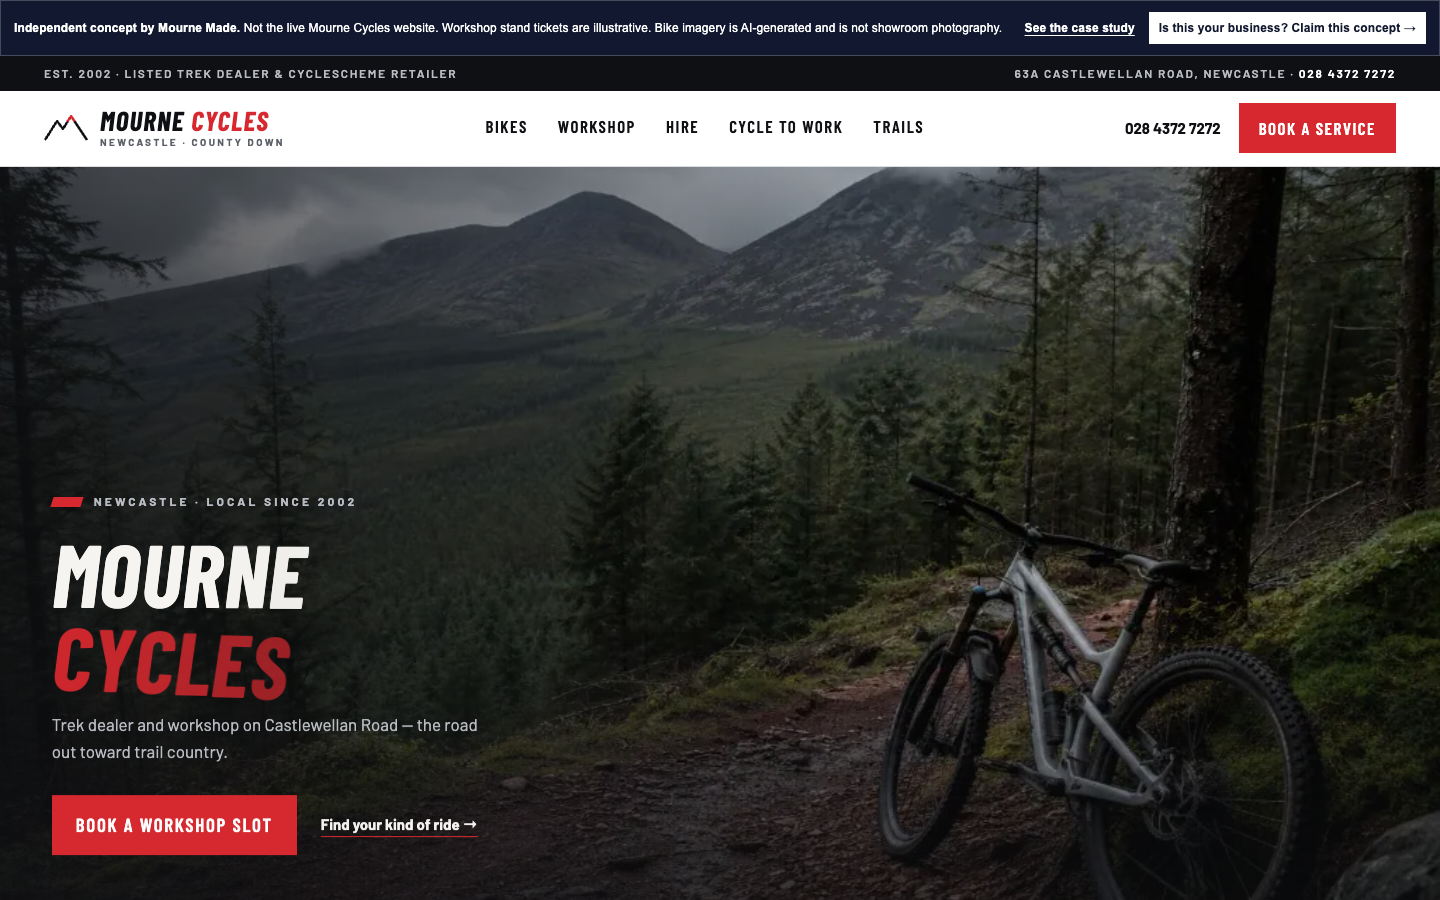
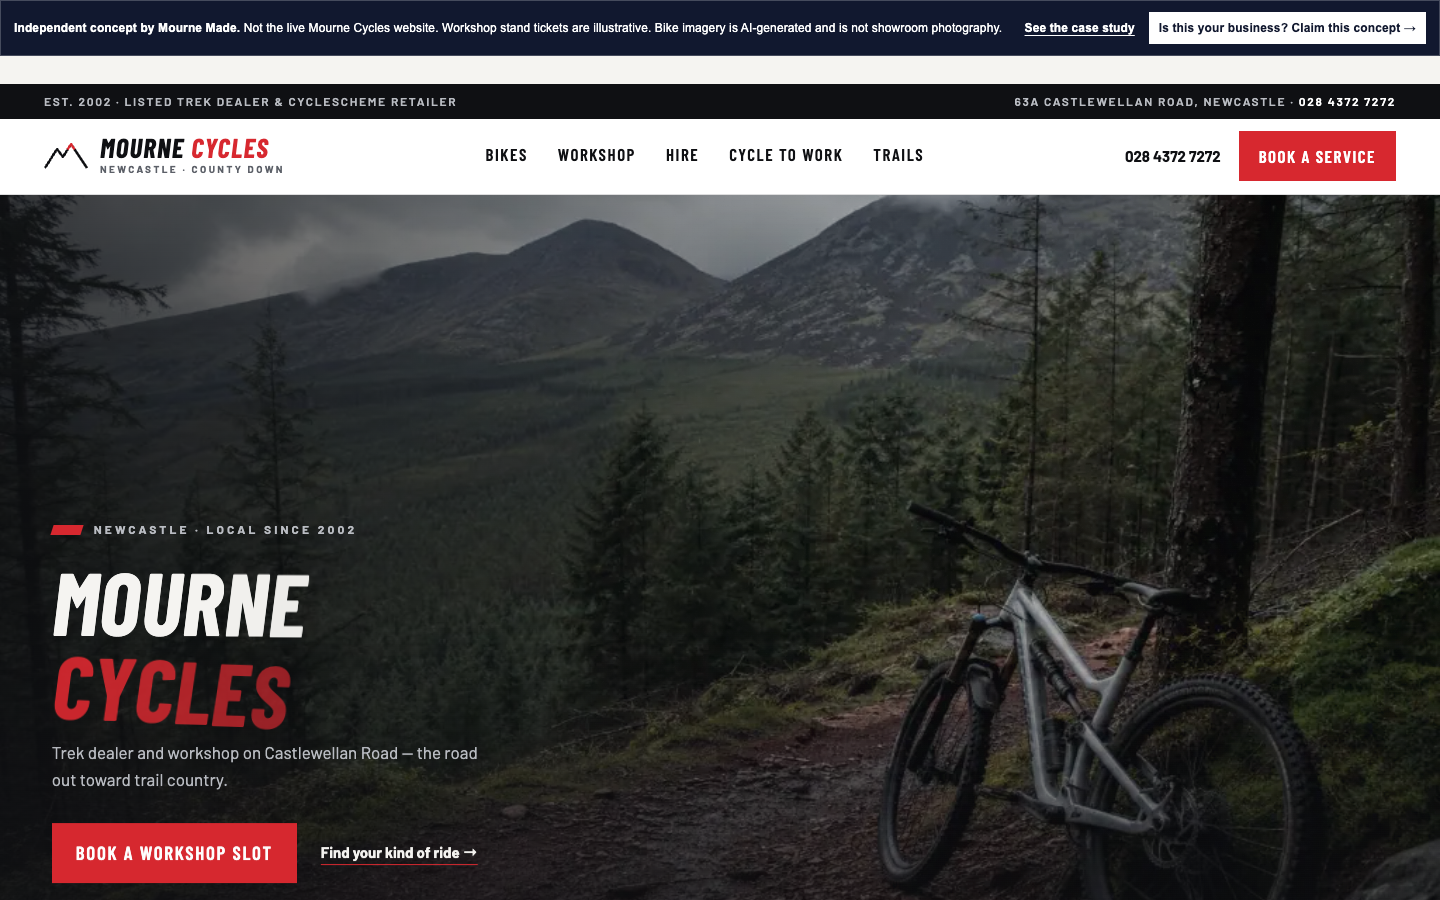
mourne-cycles: one photographic voice + generation brief
The Enniskeen grade move: a single SVG filter (#mc-grade — saturation
eased, shadows carried toward the workshop coal, fine grain) applied
through a custom property to every photographic plate, so separate
generations read as one commissioned shoot. Drawn work — the trails
map, the ridgeline — keeps its own hand.

research/concepts/mourne-cycles/mc-generation-brief.md briefs the three
plates the rebuild leaves room for (the stand, the hire fleet, trail
dusk) with boundaries, prompts and landing procedure. Notably: the
hire-after capture is a screenshot, not a plate — flagged so it is
never reused as imagery.

diff --git a/src/concepts/mourne-cycles/styles.css b/src/concepts/mourne-cycles/styles.css
@@ -25,6 +25,8 @@
   --concept-focus: #0f1013;
   --concept-nav-gap: clamp(16px, 2.2vw, 30px);
   --concept-nav-line: 3px;
+  /* One photographic voice — see the #mc-grade filter in McShell. */
+  --mc-grade: url(#mc-grade);
   background: var(--paper);
   color: var(--coal);
   font-family: var(--sans);
@@ -1947,3 +1949,14 @@
   line-height: 1.5;
 }
 .mc-booking-result a { color: var(--coal); text-decoration-color: var(--red); text-underline-offset: 4px; }
+
+/* ─── One photographic voice ──────────────────────────────────────────────── */
+
+/* Every photographic plate passes through the single #mc-grade filter
+   (defined in McShell) so separate generations read as one shoot. Drawn
+   work — the trails map, the ridgeline canvas — keeps its own hand. */
+.mc-hero-visual img,
+.mc-bike-visual img,
+.mc-hire-photo img {
+  filter: var(--mc-grade);
+}

diff --git a/research/concepts/mourne-cycles/mc-generation-brief.md b/research/concepts/mourne-cycles/mc-generation-brief.md
@@ -1,0 +1,67 @@
+# Mourne Cycles — generation brief: the remaining plates
+
+Written 8 August 2026, alongside the flagship rebuild. The concept is complete
+without these; every slot degrades to a designed drawn or coal panel until the
+file exists in `public/media/concepts/mourne-cycles/` and the page picks it up
+(filesystem-resolved at build time, the Enniskeen pattern).
+
+## Boundaries (standing, from the elevation brief)
+
+- **No premises imagery.** Do not generate the 63A frontage or the workshop
+  interior as-if-real. The workshop plate below is a generic stand-and-bench
+  scene — atmosphere, not the actual premises — and ships disclosed as
+  AI-generated in the visible layer, as the current plates do.
+- No real people, no faces. No brand marks: Trek, Bontrager and Shimano logos
+  stay out of frame — the shop's dealer status is copy, not imagery.
+- One shoot, one grade: plates are generated to sit under the single
+  `#mc-grade` filter (saturation eased, shadows to coal, fine grain) — cool,
+  overcast, Northern Ireland light; nothing sun-drenched or studio-lit.
+- Every file gets a `research/image-provenance.md` entry in the same commit,
+  and the concept banner note already discloses generated imagery.
+
+## The plates
+
+### 1. `mourne-cycles-workshop.jpg` — the stand (workshop page)
+
+A road bike up on a workshop repair stand, mid-service: chain off, a rag and
+a track pump on the bench, tools on a pegboard behind, warm tungsten work
+light against cool daylight from a doorway. No people, no logos, shallow
+depth. Landscape 3:2.
+
+Slots: a visual band on `/concepts/mourne-cycles/workshop/` beside the
+booking widget (wire with an `inPublic` check when the file exists).
+
+### 2. `mourne-cycles-hire-fleet.jpg` — the fleet (hire page)
+
+Three bikes — a hybrid, a hardtail mountain bike, an e-bike — leaned in a row
+against a forest trail-edge fence, helmets hanging from the bars, morning
+mist, Castlewellan-style spruce behind. No people, no logos. Landscape 3:2,
+dark enough to sit under white text at ~0.22 opacity.
+
+Slots: the `.mc-hire-photo` underlay on `/concepts/mourne-cycles/hire/` (CSS
+retained from the first build; re-add the `inPublic` wiring when the file
+exists). Note: do NOT reuse `mourne-cycles-hire-after.jpg` — that is the
+case-study capture of the old page, a screenshot, not a plate.
+
+### 3. `mourne-cycles-trail-dusk.jpg` — trail country at dusk (trails page, optional)
+
+Forest singletrack at last light, a ribbon of trail disappearing downhill
+toward distant water, the Mournes a dark line on the horizon. Moody, cool,
+no riders. Landscape 16:9.
+
+Slots: a closing band on `/concepts/mourne-cycles/trails/` under the
+"Tell us the ride you're after" CTA. The day-part hero mechanism (Enniskeen
+pattern) remains a possible later move for the home hero — dawn/day/dusk of
+the same trail — but needs its own brief and a "change the light and nothing
+else" rule; not assumed here.
+
+## After a plate lands
+
+1. Provenance entry in the same commit.
+2. `pnpm optimize:media` for the 640/1265 webp variants (check the tool's
+   conventions for generated plates first).
+3. Wire the slot (`inPublic`), rebuild, recapture the affected stills per
+   `docs/MEDIA_CAPTURE.md`.
+4. Note it in this file's status line below.
+
+**Status: briefed 8 August 2026; no plates generated yet.**
